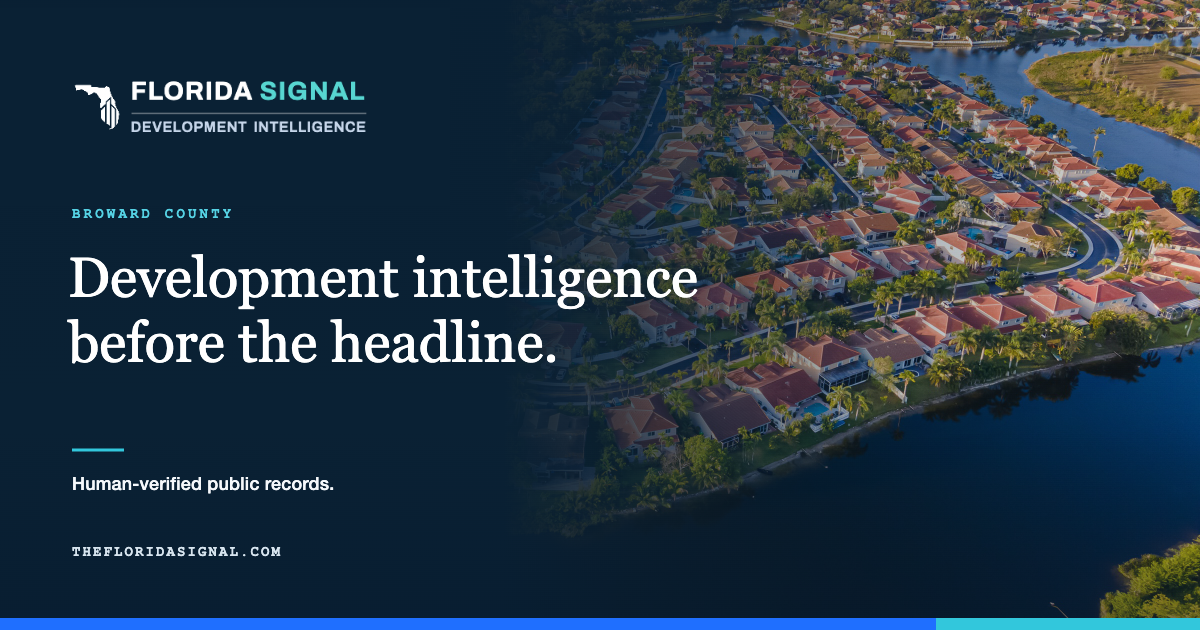
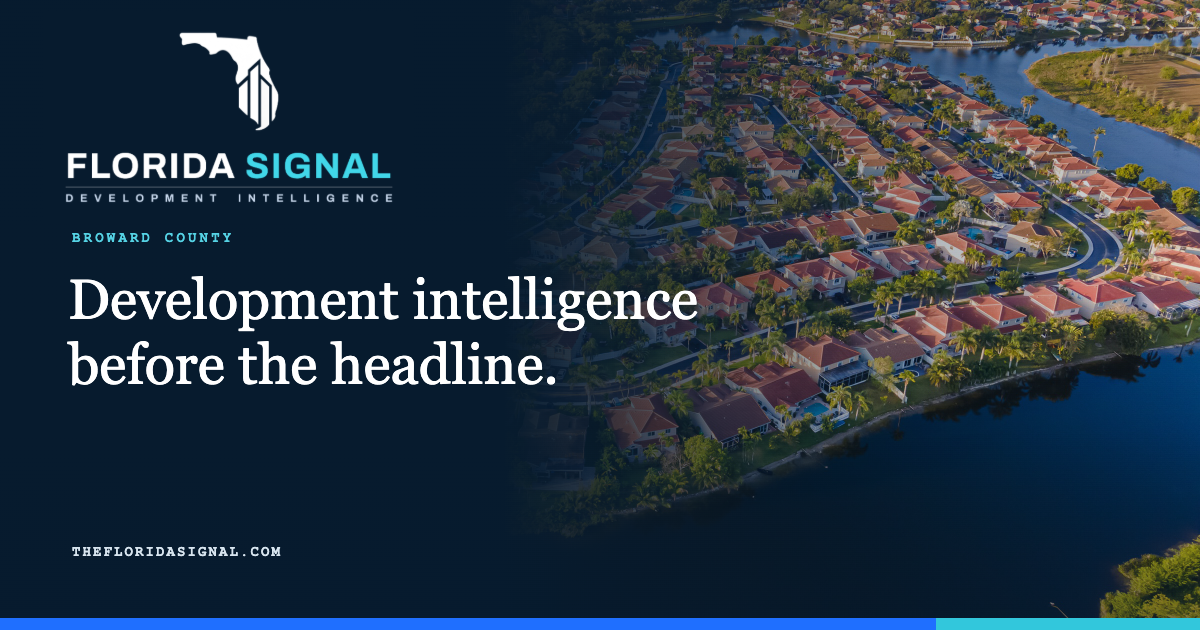
Use final Claude masthead in share thumbnail

diff --git a/brand/florida-signal-logo-avatar-kit-2026-08-16/README.md b/brand/florida-signal-logo-avatar-kit-2026-08-16/README.md
@@ -25,7 +25,9 @@ Use `fs-lockup-horizontal-transparent.png` as the primary light-background locku
 
 ## Non-negotiable usage rule
 
-Never recreate, retype, trace or re-space the Florida Signal logo or wordmark. Always place one of the approved complete exports in this kit as a single, unchanged image. Do not assemble a lockup from the Florida mark plus live text, even when the fonts and colors appear to match. New formats must reuse an approved export; if none fits, return to the original Claude Design source and export a new complete asset.
+Never recreate, retype, trace or re-space the Florida Signal logo or wordmark. Always place an approved complete export as a single, unchanged image. Do not assemble a lockup from the Florida mark plus live text, even when the fonts and colors appear to match.
+
+For the full reverse masthead used by the newsletter and dark-background social graphics, the current canonical Claude export is `mailchimp/florida-signal-newsletter-system-2026-08-16/template/img/masthead-lockup.png`. Do not substitute an earlier lockup from this kit when that final masthead is required. If no approved export fits a new format, return to the original Claude Design source and export a new complete asset.
 
 ## Verification
 
